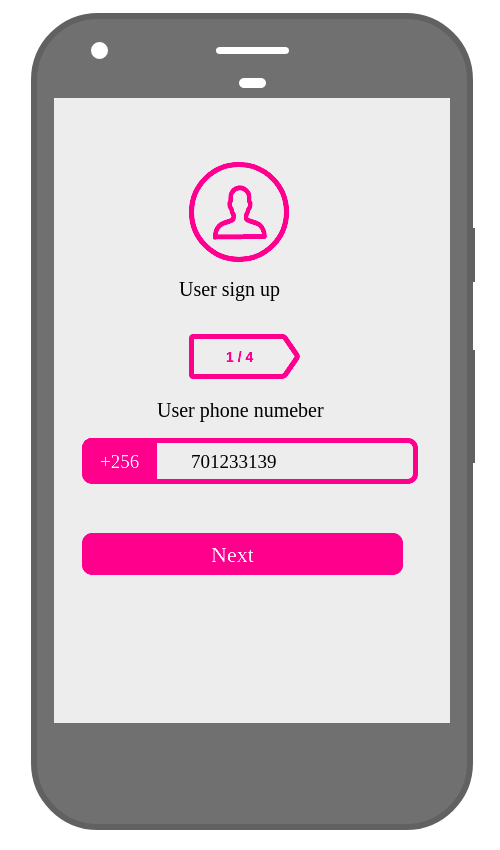
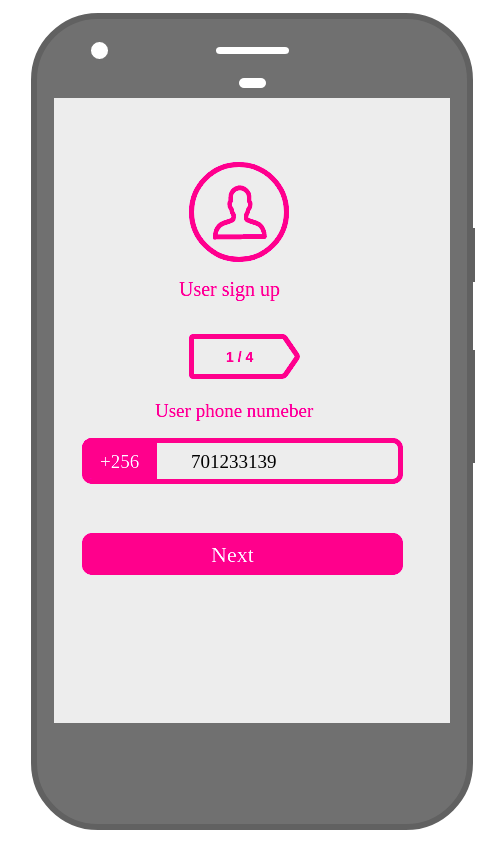
Add files via upload

Changed region(s): [[0.3, 0.4588, 0.66, 0.4894], [0.36, 0.3365, 0.57, 0.3671], [0.78, 0.52, 0.84, 0.5812]]

diff --git a/index.html b/index.html
@@ -1,2 +1,2 @@
 <html xmlns="http://www.w3.org/1999/xhtml" xmlns:p="http://www.evolus.vn/Namespace/Pencil" xmlns:html="http://www.w3.org/1999/xhtml"><head><meta http-equiv="Content-Type" content="text/html; charset=UTF-8" />
-<title>romanticcx</title><link rel="stylesheet" href="Resources/style.css" /><script type="application/javascript" src="Resources/script.js"></script></head><body><h1 id="documentTitle">romanticcx</h1><p id="documentMetadata">Exported at: Tue Jan 18 2022 08:22:26 GMT+0300 (East Africa Time)</p><div class="Page" id="splash_page"><h2>splash</h2><div class="ImageContainer"><img src="pages/splash.png" width="500" height="850" usemap="#map_splash" /></div><map name="map_splash"><area shape="rect" coords="207.99998474121094,663.994384765625,285.858856201172,698.000732421875" href="#signinout01_page" title="Go to page 'sign-in-out-01'" /></map></div><div class="Page" id="signinout01_page"><h2>sign-in-out-01</h2><div class="ImageContainer"><img src="pages/signinout01.png" width="500" height="850" usemap="#map_signinout01" /></div><map name="map_signinout01"><area shape="rect" coords="116,563,178,625" href="#signupprofile_page" title="Go to page 'sign-up-profile'" /><area shape="rect" coords="221,563,283,625" href="#signupprofile_page" title="Go to page 'sign-up-profile'" /><area shape="rect" coords="317,563,379,625" href="#signupprofile_page" title="Go to page 'sign-up-profile'" /><area shape="rect" coords="217,339.59375,272.875,360.609375" href="#signin_page" title="Go to page 'sign-in'" /><area shape="rect" coords="215,411.59375,274.109375,432.609375" href="#signup_page" title="Go to page 'sign-up'" /><area shape="rect" coords="112,398,393,446" href="#signup_page" title="Go to page 'sign-up'" /><area shape="rect" coords="112,326,393,374" href="#signin_page" title="Go to page 'sign-in'" /></map></div><div class="Page" id="signup_page"><h2>sign-up</h2><div class="ImageContainer"><img src="pages/signup.png" width="500" height="850" usemap="#map_signup" /></div><map name="map_signup"><area shape="rect" coords="210,542,254.65625,567" href="#signupcode_page" title="Go to page 'sign-up-code'" /><area shape="rect" coords="79,530,406,578" href="#signupcode_page" title="Go to page 'sign-up-code'" /></map></div><div class="Page" id="signupcode_page"><h2>sign-up-code</h2><div class="ImageContainer"><img src="pages/signupcode.png" width="500" height="850" usemap="#map_signupcode" /></div><map name="map_signupcode"><area shape="rect" coords="79,548,421,596" href="#signupdetails_page" title="Go to page 'sign-up-details'" /></map></div><div class="Page" id="signupdetails_page"><h2>sign-up-details</h2><div class="ImageContainer"><img src="pages/signupdetails.png" width="500" height="850" usemap="#map_signupdetails" /></div><map name="map_signupdetails"><area shape="rect" coords="136.64114379882812,271.499755859375,220.594604492188,301.505676269531" href="#signupcode_page" title="Go to page 'sign-up-code'" /><area shape="rect" coords="74,628,416,676" href="#signupprofile_page" title="Go to page 'sign-up-profile'" /></map></div><div class="Page" id="signupprofile_page"><h2>sign-up-profile</h2><div class="ImageContainer"><img src="pages/signupprofile.png" width="500" height="850" usemap="#map_signupprofile" /></div><map name="map_signupprofile"><area shape="rect" coords="133,459.59375,339.8125,480.609375" href="#signupprofiledropdown_page" title="Go to page 'sign-up-profile-dropdown'" /><area shape="rect" coords="216,632.59375,272.625,653.609375" href="#usermainui06_page" title="Go to page 'user-main-ui-06'" /><area shape="rect" coords="73,621,415,665" href="#usermainui06_page" title="Go to page 'user-main-ui-06'" /></map></div><div class="Page" id="signupprofiledropdown_page"><h2>sign-up-profile-dropdown</h2><div class="ImageContainer"><img src="pages/signupprofiledropdown.png" width="500" height="850" usemap="#map_signupprofiledropdown" /></div><map name="map_signupprofiledropdown"></map></div><div class="Page" id="signin_page"><h2>sign-in</h2><div class="ImageContainer"><img src="pages/signin.png" width="500" height="850" usemap="#map_signin" /></div><map name="map_signin"><area shape="rect" coords="181,474.59375,278.359375,495.609375" href="#signup_page" title="Go to page 'sign-up'" /><area shape="rect" coords="210,543.59375,249.65625,564.609375" href="#signincode_page" title="Go to page 'sign-in-code'" /><area shape="rect" coords="79,530,421,578" href="#signincode_page" title="Go to page 'sign-in-code'" /></map></div><div class="Page" id="signincode_page"><h2>sign-in-code</h2><div class="ImageContainer"><img src="pages/signincode.png" width="500" height="850" usemap="#map_signincode" /></div><map name="map_signincode"><area shape="rect" coords="210,561.59375,249.65625,582.609375" href="#usermainui06_page" title="Go to page 'user-main-ui-06'" /><area shape="rect" coords="79,548,421,596" href="#usermainui06_page" title="Go to page 'user-main-ui-06'" /></map></div><div class="Page" id="usermainui06_page"><h2>user-main-ui-06</h2><div class="ImageContainer"><img src="pages/usermainui06.png" width="500" height="850" usemap="#map_usermainui06" /></div><map name="map_usermainui06"><area shape="rect" coords="401,98,450,147" href="#usermainmenu_page" title="Go to page 'user-main-menu'" /><area shape="rect" coords="54,93,111,150" href="#userprofilesidebar02_page" title="Go to page 'user-profile-side-bar-02'" /></map></div><div class="Page" id="userprofilesidebar02_page"><h2>user-profile-side-bar-02</h2><div class="ImageContainer"><img src="pages/userprofilesidebar02.png" width="500" height="850" usemap="#map_userprofilesidebar02" /></div><map name="map_userprofilesidebar02"><area shape="rect" coords="72,440,105,473" href="#userprofilevisitorsprofile_page" title="Go to page 'user-profile-visitors-profile'" /><area shape="rect" coords="72,387,104,419" href="#userprofilelikesdislike09_page" title="Go to page 'user-profile-likes-dislike-09'" /><area shape="rect" coords="65,332,255,343" href="#userprofilelikesdislike09_page" title="Go to page 'user-profile-likes-dislike-09'" /><area shape="rect" coords="71,342,109,380" href="#userprofileprofile_page" title="Go to page 'user-profile-profile'" /><area shape="rect" coords="72,301,107,336" href="#userprofilechat0421_page" title="Go to page 'user-profile-chat-04-21'" /><area shape="rect" coords="401,98,450,147" href="#usermainmenu_page" title="Go to page 'user-main-menu'" /><area shape="rect" coords="66,572,256,584" href="#userprofilelikesdislike09_page" title="Go to page 'user-profile-likes-dislike-09'" /><area shape="rect" coords="65,621,255,633" href="#userprofilelikesdislike09_page" title="Go to page 'user-profile-likes-dislike-09'" /><area shape="rect" coords="175,301.59375,213.609375,322.609375" href="#userprofilechat0421_page" title="Go to page 'user-profile-chat-04-21'" /><area shape="rect" coords="66,518,256,530" href="#userprofilelikesdislike09_page" title="Go to page 'user-profile-likes-dislike-09'" /><area shape="rect" coords="65,467,255,479" href="#userprofilelikesdislike09_page" title="Go to page 'user-profile-likes-dislike-09'" /><area shape="rect" coords="162,440.59375,222.640625,461.609375" href="#userprofilevisitorsprofile_page" title="Go to page 'user-profile-visitors-profile'" /><area shape="rect" coords="67,416,257,428" href="#userprofilelikesdislike09_page" title="Go to page 'user-profile-likes-dislike-09'" /><area shape="rect" coords="66,374,256,385" href="#userprofilelikesdislike09_page" title="Go to page 'user-profile-likes-dislike-09'" /><area shape="rect" coords="166,342.59375,219.28125,363.609375" href="#userprofileprofile_page" title="Go to page 'user-profile-profile'" /><area shape="rect" coords="166,392.59375,209.828125,413.609375" href="#userprofilelikesdislike09_page" title="Go to page 'user-profile-likes-dislike-09'" /><area shape="rect" coords="119,693.796875,196.671875,719.8125" href="#signin_page" title="Go to page 'sign-in'" /></map></div><div class="Page" id="userprofileprofile_page"><h2>user-profile-profile</h2><div class="ImageContainer"><img src="pages/userprofileprofile.png" width="500" height="850" usemap="#map_userprofileprofile" /></div><map name="map_userprofileprofile"><area shape="rect" coords="401,96,450,145" href="#usermainmenu_page" title="Go to page 'user-main-menu'" /><area shape="rect" coords="54,92,111,149" href="#userprofilesidebar02_page" title="Go to page 'user-profile-side-bar-02'" /></map></div><div class="Page" id="userprofilevisitors07_page"><h2>user-profile-visitors-07</h2><div class="ImageContainer"><img src="pages/userprofilevisitors07.png" width="500" height="850" usemap="#map_userprofilevisitors07" /></div><map name="map_userprofilevisitors07"><area shape="rect" coords="401,107,450,156" href="#usermainmenu_page" title="Go to page 'user-main-menu'" /><area shape="rect" coords="54,98,111,155" href="#userprofilesidebar02_page" title="Go to page 'user-profile-side-bar-02'" /></map></div><div class="Page" id="userprofilevisitorsprofile_page"><h2>user-profile-visitors-profile</h2><div class="ImageContainer"><img src="pages/userprofilevisitorsprofile.png" width="500" height="850" usemap="#map_userprofilevisitorsprofile" /></div><map name="map_userprofilevisitorsprofile"><area shape="rect" coords="401,103,450,152" href="#usermainmenu_page" title="Go to page 'user-main-menu'" /><area shape="rect" coords="54,98,111,155" href="#userprofilesidebar02_page" title="Go to page 'user-profile-side-bar-02'" /></map></div><div class="Page" id="userprofilelikesdislike09_page"><h2>user-profile-likes-dislike-09</h2><div class="ImageContainer"><img src="pages/userprofilelikesdislike09.png" width="500" height="850" usemap="#map_userprofilelikesdislike09" /></div><map name="map_userprofilelikesdislike09"><area shape="rect" coords="401,98,450,147" href="#usermainmenu_page" title="Go to page 'user-main-menu'" /><area shape="rect" coords="54,98,111,155" href="#userprofilesidebar02_page" title="Go to page 'user-profile-side-bar-02'" /><area shape="rect" coords="51,95,453,158" href="#signupdetails_page" title="Go to page 'sign-up-details'" /></map></div><div class="Page" id="userprofilechat0421_page"><h2>user-profile-chat-04-21</h2><div class="ImageContainer"><img src="pages/userprofilechat0421.png" width="500" height="850" usemap="#map_userprofilechat0421" /></div><map name="map_userprofilechat0421"><area shape="rect" coords="401,103,450,152" href="#usermainmenu_page" title="Go to page 'user-main-menu'" /><area shape="rect" coords="54,98,111,155" href="#userprofilesidebar02_page" title="Go to page 'user-profile-side-bar-02'" /></map></div><div class="Page" id="usermainmenu_page"><h2>user-main-menu</h2><div class="ImageContainer"><img src="pages/usermainmenu.png" width="500" height="850" usemap="#map_usermainmenu" /></div><map name="map_usermainmenu"><area shape="rect" coords="401,102,450,151" href="#usermainmenu_page" title="Go to page 'user-main-menu'" /><area shape="rect" coords="54,94,111,151" href="#userprofilesidebar02_page" title="Go to page 'user-profile-side-bar-02'" /></map></div></body></html>
+<title>romanticcx</title><link rel="stylesheet" href="Resources/style.css" /><script type="application/javascript" src="Resources/script.js"></script></head><body><h1 id="documentTitle">romanticcx</h1><p id="documentMetadata">Exported at: Tue Jan 18 2022 12:42:11 GMT+0300 (East Africa Time)</p><div class="Page" id="splash_page"><h2>splash</h2><div class="ImageContainer"><img src="pages/splash.png" width="500" height="850" usemap="#map_splash" /></div><map name="map_splash"><area shape="rect" coords="207.99998474121094,663.994384765625,285.858856201172,698.000732421875" href="#signinout01_page" title="Go to page 'sign-in-out-01'" /></map></div><div class="Page" id="signinout01_page"><h2>sign-in-out-01</h2><div class="ImageContainer"><img src="pages/signinout01.png" width="500" height="850" usemap="#map_signinout01" /></div><map name="map_signinout01"><area shape="rect" coords="116,563,178,625" href="#signupprofile_page" title="Go to page 'sign-up-profile'" /><area shape="rect" coords="221,563,283,625" href="#signupprofile_page" title="Go to page 'sign-up-profile'" /><area shape="rect" coords="317,563,379,625" href="#signupprofile_page" title="Go to page 'sign-up-profile'" /><area shape="rect" coords="215,377.59375,270.875,398.609375" href="#signin_page" title="Go to page 'sign-in'" /><area shape="rect" coords="215,439.59375,274.109375,460.609375" href="#signup_page" title="Go to page 'sign-up'" /><area shape="rect" coords="112,426,393,474" href="#signup_page" title="Go to page 'sign-up'" /><area shape="rect" coords="111,363,392,411" href="#signin_page" title="Go to page 'sign-in'" /></map></div><div class="Page" id="signup_page"><h2>sign-up</h2><div class="ImageContainer"><img src="pages/signup.png" width="500" height="850" usemap="#map_signup" /></div><map name="map_signup"><area shape="rect" coords="210,542,254.65625,567" href="#signupcode_page" title="Go to page 'sign-up-code'" /><area shape="rect" coords="79,530,406,578" href="#signupcode_page" title="Go to page 'sign-up-code'" /></map></div><div class="Page" id="signupcode_page"><h2>sign-up-code</h2><div class="ImageContainer"><img src="pages/signupcode.png" width="500" height="850" usemap="#map_signupcode" /></div><map name="map_signupcode"><area shape="rect" coords="124.64114379882812,357.499755859375,208.594604492188,387.505676269531" href="#signup_page" title="Go to page 'sign-up'" /><area shape="rect" coords="79,548,421,596" href="#signupdetails_page" title="Go to page 'sign-up-details'" /></map></div><div class="Page" id="signupdetails_page"><h2>sign-up-details</h2><div class="ImageContainer"><img src="pages/signupdetails.png" width="500" height="850" usemap="#map_signupdetails" /></div><map name="map_signupdetails"><area shape="rect" coords="136.64114379882812,271.499755859375,220.594604492188,301.505676269531" href="#signupcode_page" title="Go to page 'sign-up-code'" /><area shape="rect" coords="74,628,416,676" href="#signupprofile_page" title="Go to page 'sign-up-profile'" /></map></div><div class="Page" id="signupprofile_page"><h2>sign-up-profile</h2><div class="ImageContainer"><img src="pages/signupprofile.png" width="500" height="850" usemap="#map_signupprofile" /></div><map name="map_signupprofile"><area shape="rect" coords="135.64114379882812,216.499755859375,219.594604492188,246.50569152832" href="#signupdetails_page" title="Go to page 'sign-up-details'" /><area shape="rect" coords="133,459.59375,339.8125,480.609375" href="#signupprofiledropdown_page" title="Go to page 'sign-up-profile-dropdown'" /><area shape="rect" coords="216,632.59375,272.625,653.609375" href="#usermainui06_page" title="Go to page 'user-main-ui-06'" /><area shape="rect" coords="73,621,415,665" href="#usermainui06_page" title="Go to page 'user-main-ui-06'" /></map></div><div class="Page" id="signupprofiledropdown_page"><h2>sign-up-profile-dropdown</h2><div class="ImageContainer"><img src="pages/signupprofiledropdown.png" width="500" height="850" usemap="#map_signupprofiledropdown" /></div><map name="map_signupprofiledropdown"></map></div><div class="Page" id="signin_page"><h2>sign-in</h2><div class="ImageContainer"><img src="pages/signin.png" width="500" height="850" usemap="#map_signin" /></div><map name="map_signin"><area shape="rect" coords="181,474.59375,278.359375,495.609375" href="#signup_page" title="Go to page 'sign-up'" /><area shape="rect" coords="210,543.59375,249.65625,564.609375" href="#signincode_page" title="Go to page 'sign-in-code'" /><area shape="rect" coords="79,530,421,578" href="#signincode_page" title="Go to page 'sign-in-code'" /></map></div><div class="Page" id="signincode_page"><h2>sign-in-code</h2><div class="ImageContainer"><img src="pages/signincode.png" width="500" height="850" usemap="#map_signincode" /></div><map name="map_signincode"><area shape="rect" coords="210,561.59375,249.65625,582.609375" href="#usermainui06_page" title="Go to page 'user-main-ui-06'" /><area shape="rect" coords="79,548,421,596" href="#usermainui06_page" title="Go to page 'user-main-ui-06'" /></map></div><div class="Page" id="usermainui06_page"><h2>user-main-ui-06</h2><div class="ImageContainer"><img src="pages/usermainui06.png" width="500" height="850" usemap="#map_usermainui06" /></div><map name="map_usermainui06"><area shape="rect" coords="401,98,450,147" href="#usermainmenu_page" title="Go to page 'user-main-menu'" /><area shape="rect" coords="54,93,111,150" href="#userprofilesidebar02_page" title="Go to page 'user-profile-side-bar-02'" /></map></div><div class="Page" id="userprofilesidebar02_page"><h2>user-profile-side-bar-02</h2><div class="ImageContainer"><img src="pages/userprofilesidebar02.png" width="500" height="850" usemap="#map_userprofilesidebar02" /></div><map name="map_userprofilesidebar02"><area shape="rect" coords="72,440,105,473" href="#userprofilevisitorsprofile_page" title="Go to page 'user-profile-visitors-profile'" /><area shape="rect" coords="72,387,104,419" href="#userprofilelikesdislike09_page" title="Go to page 'user-profile-likes-dislike-09'" /><area shape="rect" coords="71,342,109,380" href="#userprofileprofile_page" title="Go to page 'user-profile-profile'" /><area shape="rect" coords="72,287,107,322" href="#userprofilechat0421_page" title="Go to page 'user-profile-chat-04-21'" /><area shape="rect" coords="401,98,450,147" href="#usermainmenu_page" title="Go to page 'user-main-menu'" /><area shape="rect" coords="175,301.59375,213.609375,322.609375" href="#userprofilechat0421_page" title="Go to page 'user-profile-chat-04-21'" /><area shape="rect" coords="162,440.59375,222.640625,461.609375" href="#userprofilevisitorsprofile_page" title="Go to page 'user-profile-visitors-profile'" /><area shape="rect" coords="166,342.59375,219.28125,363.609375" href="#userprofileprofile_page" title="Go to page 'user-profile-profile'" /><area shape="rect" coords="166,392.59375,209.828125,413.609375" href="#userprofilelikesdislike09_page" title="Go to page 'user-profile-likes-dislike-09'" /><area shape="rect" coords="119,693.796875,196.671875,719.8125" href="#signin_page" title="Go to page 'sign-in'" /></map></div><div class="Page" id="userprofileprofile_page"><h2>user-profile-profile</h2><div class="ImageContainer"><img src="pages/userprofileprofile.png" width="500" height="850" usemap="#map_userprofileprofile" /></div><map name="map_userprofileprofile"><area shape="rect" coords="401,96,450,145" href="#usermainmenu_page" title="Go to page 'user-main-menu'" /><area shape="rect" coords="54,92,111,149" href="#userprofilesidebar02_page" title="Go to page 'user-profile-side-bar-02'" /></map></div><div class="Page" id="userprofilevisitors07_page"><h2>user-profile-visitors-07</h2><div class="ImageContainer"><img src="pages/userprofilevisitors07.png" width="500" height="850" usemap="#map_userprofilevisitors07" /></div><map name="map_userprofilevisitors07"><area shape="rect" coords="401,107,450,156" href="#usermainmenu_page" title="Go to page 'user-main-menu'" /><area shape="rect" coords="54,98,111,155" href="#userprofilesidebar02_page" title="Go to page 'user-profile-side-bar-02'" /></map></div><div class="Page" id="userprofilevisitorsprofile_page"><h2>user-profile-visitors-profile</h2><div class="ImageContainer"><img src="pages/userprofilevisitorsprofile.png" width="500" height="850" usemap="#map_userprofilevisitorsprofile" /></div><map name="map_userprofilevisitorsprofile"><area shape="rect" coords="401,103,450,152" href="#usermainmenu_page" title="Go to page 'user-main-menu'" /><area shape="rect" coords="54,98,111,155" href="#userprofilesidebar02_page" title="Go to page 'user-profile-side-bar-02'" /></map></div><div class="Page" id="userprofilelikesdislike09_page"><h2>user-profile-likes-dislike-09</h2><div class="ImageContainer"><img src="pages/userprofilelikesdislike09.png" width="500" height="850" usemap="#map_userprofilelikesdislike09" /></div><map name="map_userprofilelikesdislike09"><area shape="rect" coords="401,98,450,147" href="#usermainmenu_page" title="Go to page 'user-main-menu'" /><area shape="rect" coords="54,98,111,155" href="#userprofilesidebar02_page" title="Go to page 'user-profile-side-bar-02'" /><area shape="rect" coords="51,95,453,158" href="#signupdetails_page" title="Go to page 'sign-up-details'" /></map></div><div class="Page" id="userprofilechat0421_page"><h2>user-profile-chat-04-21</h2><div class="ImageContainer"><img src="pages/userprofilechat0421.png" width="500" height="850" usemap="#map_userprofilechat0421" /></div><map name="map_userprofilechat0421"><area shape="rect" coords="401,103,450,152" href="#usermainmenu_page" title="Go to page 'user-main-menu'" /><area shape="rect" coords="54,98,111,155" href="#userprofilesidebar02_page" title="Go to page 'user-profile-side-bar-02'" /></map></div><div class="Page" id="usermainmenu_page"><h2>user-main-menu</h2><div class="ImageContainer"><img src="pages/usermainmenu.png" width="500" height="850" usemap="#map_usermainmenu" /></div><map name="map_usermainmenu"><area shape="rect" coords="401,102,450,151" href="#usermainmenu_page" title="Go to page 'user-main-menu'" /><area shape="rect" coords="54,94,111,151" href="#userprofilesidebar02_page" title="Go to page 'user-profile-side-bar-02'" /></map></div></body></html>
